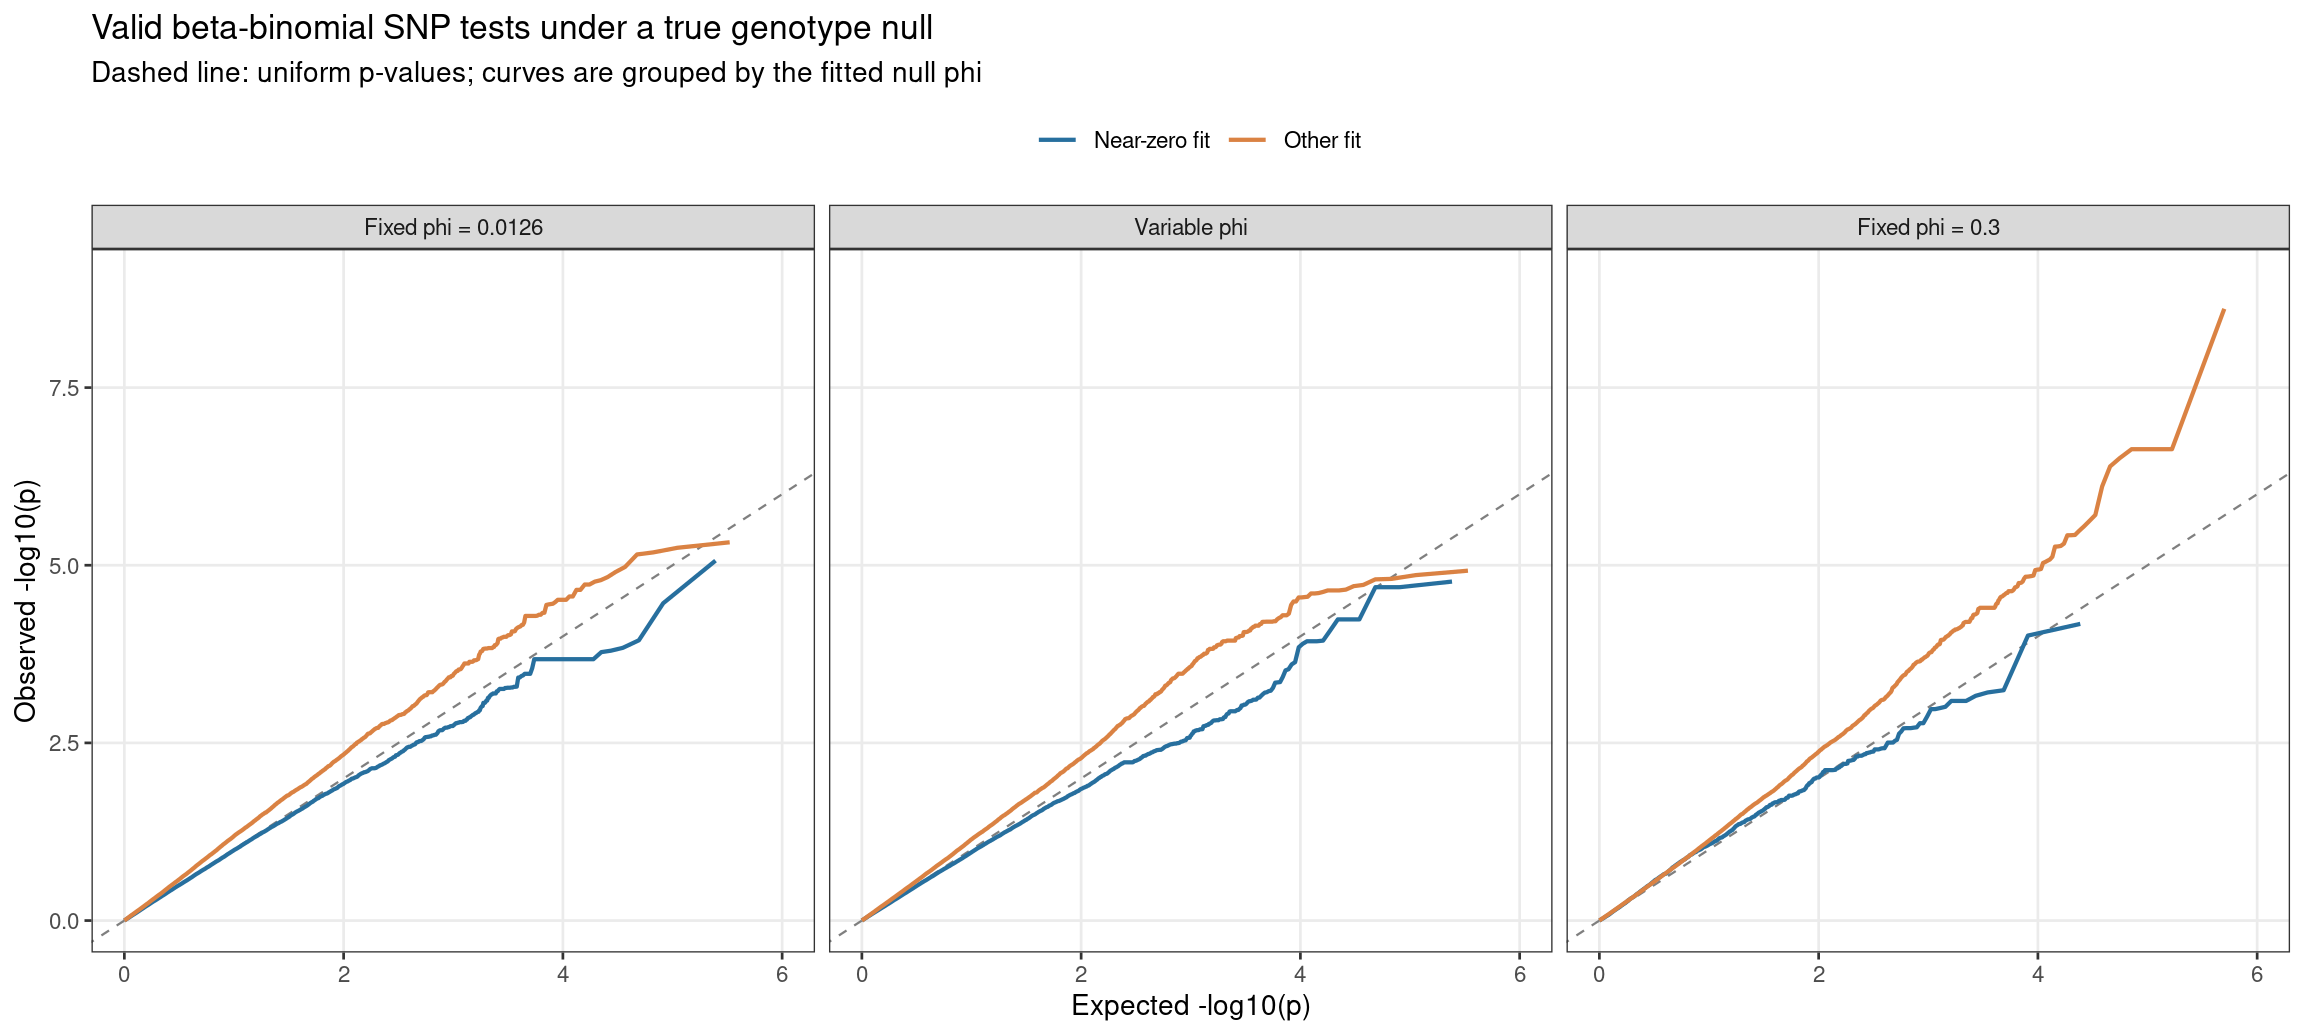
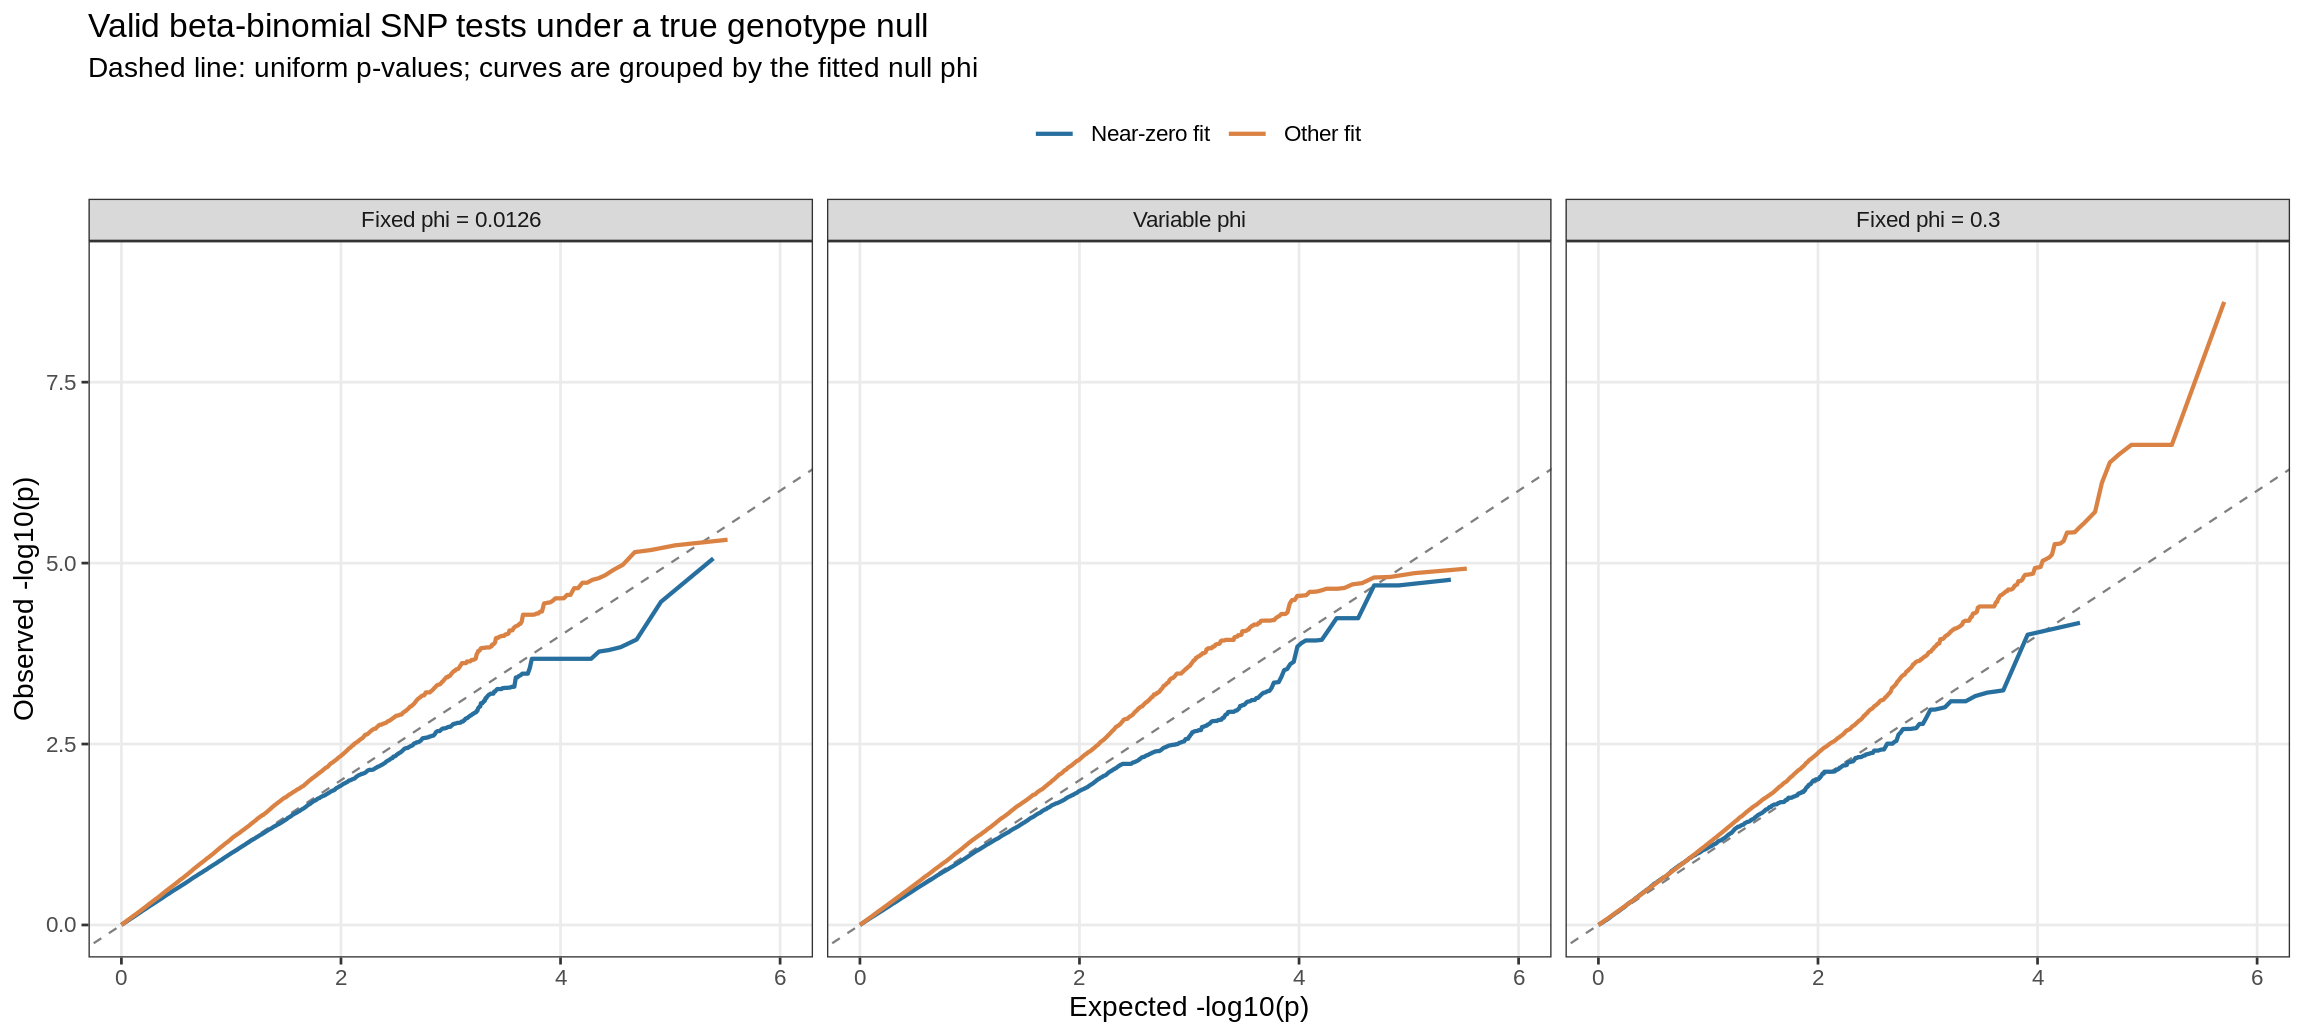
update

diff --git a/docs/qtl_mapping_betabinomial_null_simulation.html b/docs/qtl_mapping_betabinomial_null_simulation.html
@@ -15,7 +15,7 @@
 
 <title>Does a near-zero dispersion estimate create false pU-QTLs?</title>
 
-<script src="site_libs/header-attrs-2.31/header-attrs.js"></script>
+<script src="site_libs/header-attrs-2.21/header-attrs.js"></script>
 <script src="site_libs/jquery-3.6.0/jquery-3.6.0.min.js"></script>
 <meta name="viewport" content="width=device-width, initial-scale=1" />
 <link href="site_libs/bootstrap-3.3.5/css/cosmo.min.css" rel="stylesheet" />
@@ -31,7 +31,7 @@
        h6 {font-size: 12px;}
        code {color: inherit; background-color: rgba(0, 0, 0, 0.04);}
        pre:not([class]) { background-color: white }</style>
-<script src="site_libs/jqueryui-1.13.2/jquery-ui.min.js"></script>
+<script src="site_libs/jqueryui-1.11.4/jquery-ui.min.js"></script>
 <link href="site_libs/tocify-1.9.1/jquery.tocify.css" rel="stylesheet" />
 <script src="site_libs/tocify-1.9.1/jquery.tocify.js"></script>
 <script src="site_libs/navigation-1.1/tabsets.js"></script>
@@ -403,7 +403,7 @@ aria-hidden="true"></span> </a>
 <div class="tab-content">
 <div id="summary" class="tab-pane fade in active">
 <p>
-<strong>Last updated:</strong> 2026-09-30
+<strong>Last updated:</strong> 2026-10-05
 </p>
 <p>
 <strong>Checks:</strong> <span
@@ -421,7 +421,7 @@ title="This is the local directory in which the code in this file was executed."
 This reproducible <a href="https://rmarkdown.rstudio.com">R Markdown</a>
 analysis was created with <a
   href="https://github.com/workflowr/workflowr">workflowr</a> (version
-1.7.1). The <em>Checks</em> tab describes the reproducibility checks
+1.7.0). The <em>Checks</em> tab describes the reproducibility checks
 that were applied when the results were created. The <em>Past
 versions</em> tab lists the development history.
 </p>
@@ -537,15 +537,15 @@ project makes it easier to run your code on other machines.</p>
 <div class="panel panel-default">
 <div class="panel-heading">
 <p class="panel-title">
-<a data-toggle="collapse" data-parent="#workflowr-checks" href="#strongRepositoryversionstrongahrefhttpsgithubcomxsun1229pumseqtreee9eedeb2e2b0007c7bf9e132d950097d6a10fca5targetblanke9eedeba">
+<a data-toggle="collapse" data-parent="#workflowr-checks" href="#strongRepositoryversionstrongahrefhttpsgithubcomxsun1229pumseqtreeb65a83d358d8c5a7cdfdc07529417f9d7aa0948ftargetblankb65a83da">
 <span class="glyphicon glyphicon-ok text-success"
 aria-hidden="true"></span> <strong>Repository version:</strong>
-<a href="https://github.com/xsun1229/pumseq/tree/e9eedeb2e2b0007c7bf9e132d950097d6a10fca5" target="_blank">e9eedeb</a>
+<a href="https://github.com/xsun1229/pumseq/tree/b65a83d358d8c5a7cdfdc07529417f9d7aa0948f" target="_blank">b65a83d</a>
 </a>
 </p>
 </div>
 <div
[2 lines of base64/hex data omitted]
 class="panel-collapse collapse">
 <div class="panel-body">
 <p>
@@ -555,7 +555,7 @@ reproducibility.
 </p>
 <p>
 The results in this page were generated with repository version
-<a href="https://github.com/xsun1229/pumseq/tree/e9eedeb2e2b0007c7bf9e132d950097d6a10fca5" target="_blank">e9eedeb</a>.
+<a href="https://github.com/xsun1229/pumseq/tree/b65a83d358d8c5a7cdfdc07529417f9d7aa0948f" target="_blank">b65a83d</a>.
 See the <em>Past versions</em> tab to see a history of the changes made
 to the R Markdown and HTML files.
 </p>
@@ -620,6 +620,40 @@ Message
 </tr>
 </thead>
 <tbody>
+<tr>
+<td>
+Rmd
+</td>
+<td>
+<a href="https://github.com/xsun1229/pumseq/blob/b65a83d358d8c5a7cdfdc07529417f9d7aa0948f/analysis/qtl_mapping_betabinomial_null_simulation.Rmd" target="_blank">b65a83d</a>
+</td>
+<td>
+XSun
+</td>
+<td>
+2026-09-30
+</td>
+<td>
+update
+</td>
+</tr>
+<tr>
+<td>
+html
+</td>
+<td>
+<a href="https://rawcdn.githack.com/xsun1229/pumseq/b65a83d358d8c5a7cdfdc07529417f9d7aa0948f/docs/qtl_mapping_betabinomial_null_simulation.html" target="_blank">b65a83d</a>
+</td>
+<td>
+XSun
+</td>
+<td>
+2026-09-30
+</td>
+<td>
+update
+</td>
+</tr>
 <tr>
 <td>
 Rmd
@@ -805,7 +839,7 @@ that site’s true phi.</li>
 its cutoff. Sites whose null fit failed, or that had no valid SNP tests,
 are not in either bar. “Near-zero” is a practical threshold; the
 estimate need not be exactly zero.</p>
-<p><img src="figure/qtl_mapping_betabinomial_null_simulation.Rmd/site-rates-1.png" alt="" width="864" style="display: block; margin: auto;" /></p>
+<p><img src="figure/qtl_mapping_betabinomial_null_simulation.Rmd/site-rates-1.png" width="864" style="display: block; margin: auto;" /></p>
 <p>
 <button type="button" class="btn btn-default btn-xs btn-workflowr btn-workflowr-fig" data-toggle="collapse" data-target="#fig-site-rates-1">
 Past versions of site-rates-1.png
@@ -911,7 +945,7 @@ distribution would follow the diagonal in the QQ plots. Points above the
 diagonal indicate more small p-values than expected. These plots use
 every <em>valid</em> beta-binomial test; only plotting points are
 thinned.</p>
-<p><img src="figure/qtl_mapping_betabinomial_null_simulation.Rmd/qq-1.png" alt="" width="1152" style="display: block; margin: auto;" /></p>
+<p><img src="figure/qtl_mapping_betabinomial_null_simulation.Rmd/qq-1.png" width="1152" style="display: block; margin: auto;" /></p>
 <p>
 <button type="button" class="btn btn-default btn-xs btn-workflowr btn-workflowr-fig" data-toggle="collapse" data-target="#fig-qq-1">
 Past versions of qq-1.png
@@ -949,6 +983,27 @@ XSun
 </table>
 </div>
 </div>
+<p>What do the small-p tests at phi = 0.3 have in common? Each test fits
+two models: a <strong>null</strong> model without the SNP (one fit per
+site, shared by all its SNPs) and a <strong>full</strong> model with it
+(one fit per SNP). Both estimate phi. The histogram compares the two
+estimates for every test with p &lt; 1e-4 against 1,000 random tests
+with p &gt;= 1e-4.</p>
+<p><img src="figure/qtl_mapping_betabinomial_null_simulation.Rmd/hitphi-1.png" width="960" style="display: block; margin: auto;" /></p>
+<p>For ordinary tests the two estimates agree (median 0.259 null vs
+0.250 full). For the small-p tests the null estimate is only slightly
+low (median 0.235), but the <strong>full</strong> estimate collapses:
+median 0.086, with 39% below 0.025 against 6% for ordinary tests. When a
+SNP happens to line up with the few cell lines that read high, the full
+model explains them with a genotype effect instead of dispersion, so its
+phi drops and the likelihood ratio grows beyond what the chi-square
+reference allows.</p>
+<p>The tall bars in the null panel come from linkage: all tests at a
+site share one null fit, and three sites contribute 76 of the 171 tests.
+Without them the full estimate is even lower (median 0.008, 52% below
+0.025). Data from <code>46.null_hit_tests_phi.R</code>, which
+regenerates the simulated counts from their seeds and refits each
+test.</p>
 <table>
 <caption>SNP-level tail rates are among valid beta-binomial tests. With
 300,000 tests, a uniform null predicts about 30 p-values below
@@ -1116,38 +1171,35 @@ Session information
 <div id="workflowr-sessioninfo" class="collapse">
 <pre><code>R version 4.2.0 (2022-04-22)
 Platform: x86_64-pc-linux-gnu (64-bit)
-Running under: Red Hat Enterprise Linux 8.10 (Ootpa)
+Running under: CentOS Linux 8
 
 Matrix products: default
 BLAS/LAPACK: /software/openblas-0.3.13-el8-x86_64/lib/libopenblas_skylakexp-r0.3.13.so
 
 locale:
- [1] LC_CTYPE=C.UTF-8       LC_NUMERIC=C           LC_TIME=C.UTF-8       
- [4] LC_COLLATE=C.UTF-8     LC_MONETARY=C.UTF-8    LC_MESSAGES=C.UTF-8   
- [7] LC_PAPER=C.UTF-8       LC_NAME=C              LC_ADDRESS=C          
-[10] LC_TELEPHONE=C         LC_MEASUREMENT=C.UTF-8 LC_IDENTIFICATION=C   
+[1] C
 
 attached base packages:
 [1] stats     graphics  grDevices utils     datasets  methods   base     
 
 other attached packages:
-[1] ggplot2_3.4.2     data.table_1.14.4 workflowr_1.7.1  
+[1] ggplot2_3.4.2     data.table_1.14.4 workflowr_1.7.0  
 
 loaded via a namespace (and not attached):
- [1] tidyselect_1.2.0  xfun_0.59         bslib_0.3.1       colorspace_2.0-3 
+ [1] tidyselect_1.2.0  xfun_0.38         bslib_0.3.1       colorspace_2.0-3 
  [5] vctrs_0.6.1       generics_0.1.3    htmltools_0.5.7   yaml_2.3.5       
- [9] utf8_1.2.2        rlang_1.1.2       R.oo_1.24.0       later_1.3.0      
-[13] pillar_1.9.0      jquerylib_0.1.4   glue_1.6.2        withr_2.5.0      
+ [9] utf8_1.2.2        rlang_1.1.2       R.oo_1.24.0       jquerylib_0.1.4  
+[13] later_1.3.0       pillar_1.9.0      glue_1.6.2        withr_2.5.0      
 [17] R.utils_2.11.0    lifecycle_1.0.4   stringr_1.5.0     munsell_0.5.0    
 [21] gtable_0.3.0      R.methodsS3_1.8.1 evaluate_0.15     labeling_0.4.2   
-[25] knitr_1.51        callr_3.7.0       fastmap_1.1.0     httpuv_1.6.5     
-[29] ps_1.7.0          fansi_1.0.3       Rcpp_1.1.1-1.1    promises_1.2.0.1 
-[33] scales_1.2.0      jsonlite_2.0.0    farver_2.1.0      otel_0.2.0       
+[25] knitr_1.42        callr_3.7.0       fastmap_1.1.0     httpuv_1.6.5     
+[29] ps_1.7.0          fansi_1.0.3       highr_0.9         Rcpp_1.0.11      
+[33] promises_1.2.0.1  scales_1.2.0      jsonlite_1.8.7    farver_2.1.0     
 [37] fs_1.5.2          digest_0.6.29     stringi_1.7.6     processx_3.5.3   
 [41] dplyr_1.1.2       getPass_0.2-2     rprojroot_2.0.3   grid_4.2.0       
 [45] cli_3.6.2         tools_4.2.0       magrittr_2.0.3    sass_0.4.1       
-[49] tibble_3.2.1      whisker_0.4       pkgconfig_2.0.3   rmarkdown_2.31   
-[53] httr_1.4.8        rstudioapi_0.14   R6_2.5.1          git2r_0.30.1     
+[49] tibble_3.2.1      whisker_0.4       pkgconfig_2.0.3   rmarkdown_2.21   
+[53] httr_1.4.5        rstudioapi_0.14   R6_2.5.1          git2r_0.30.1     
 [57] compiler_4.2.0   </code></pre>
 </div>
 </div>

diff --git a/docs/site_libs/navigation-1.1/codefolding.js b/docs/site_libs/navigation-1.1/codefolding.js
@@ -31,7 +31,7 @@ window.initializeCodeFolding = function(show) {
     $(this).detach().appendTo(div);
 
     // add a show code button right above
-    var showCodeText = $('<span>' + (showThis ? 'Hide' : 'Show') + '</span>');
+    var showCodeText = $('<span>' + (showThis ? 'Hide' : 'Code') + '</span>');
     var showCodeButton = $('<button type="button" class="btn btn-default btn-xs btn-secondary btn-sm code-folding-btn pull-right float-right"></button>');
     showCodeButton.append(showCodeText);
     showCodeButton
@@ -57,7 +57,7 @@ window.initializeCodeFolding = function(show) {
     //   * Change text
     //   * add a class for intermediate states styling
     div.on('hide.bs.collapse', function () {
-      showCodeText.text('Show');
+      showCodeText.text('Code');
       showCodeButton.addClass('btn-collapsing');
     });
     div.on('hidden.bs.collapse', function () {
